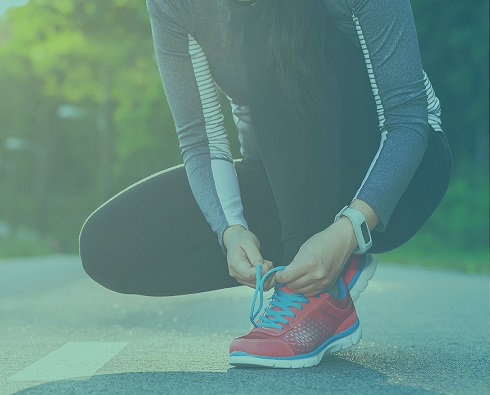
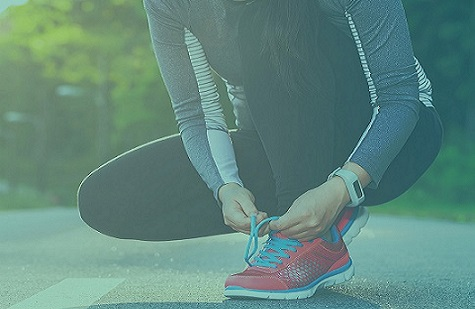
additional pics

diff --git a/assets/style.css b/assets/style.css
@@ -192,9 +192,13 @@ footer nav ul li a {
     padding-top: 400px;
     border: 5px solid #39a6b2;
 }
+.surf-background-image:hover {
+    color: bisque;
+}
 
 .led {
     background-image: url("../assets/iot-in-healthcare.png");
+    background-position: center;
     margin: 4px;
     width: 49%;
     padding-top: 200px;
@@ -202,6 +206,8 @@ footer nav ul li a {
 }
 
 .calculator {
+    background-image: url("../assets/plastic-surg-react-html.jpg");
+    background-position: center;
     margin: 4px;
     width: 49%;
     padding-top: 200px;
@@ -209,6 +215,8 @@ footer nav ul li a {
 }
 
 .pastel { 
+    background-image: url("../assets/MERN-image.png");
+    background-position: center;    
     margin: 4px;
     width: 49%;
     padding-top: 200px;
@@ -217,6 +225,7 @@ footer nav ul li a {
 
 .run {
     background-image: url("../assets/hero-rad-bg.jpg");
+    background-position: center;
     margin: 4px;
     width: 49%;
     padding-top: 200px;
